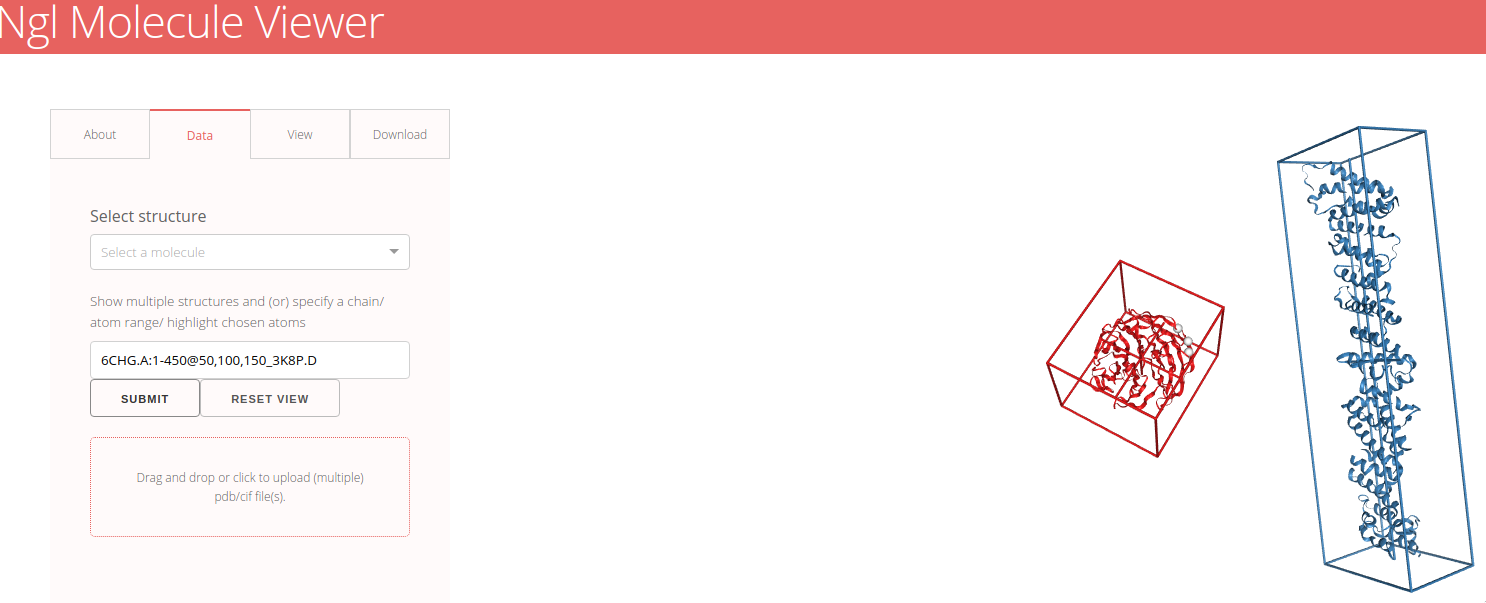
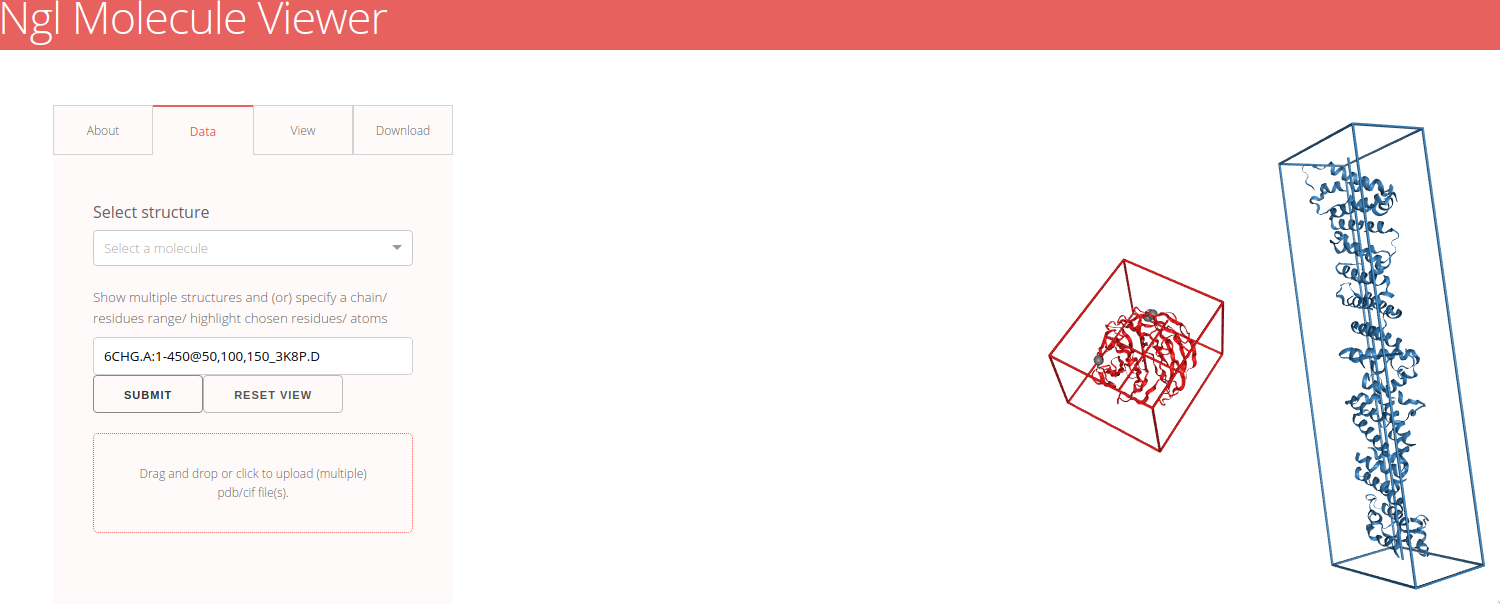
updated demo picture

diff --git a/src/lib/components/DashNgl.react.js b/src/lib/components/DashNgl.react.js
@@ -149,7 +149,7 @@ export default class DashNgl extends Component {
       struc.addRepresentation(repr, args)
     }
     if (chosenResidues!== ''){
-      args.sele = sele + '.CA ' + ' and (' + chosenResidues.replace(/,/g,' or ') + ')'
+      args.sele = sele + '.CA and (' + chosenResidues.replace(/,/g,' or ') + ')'
       struc.addRepresentation(repr, args)
     }
   }
